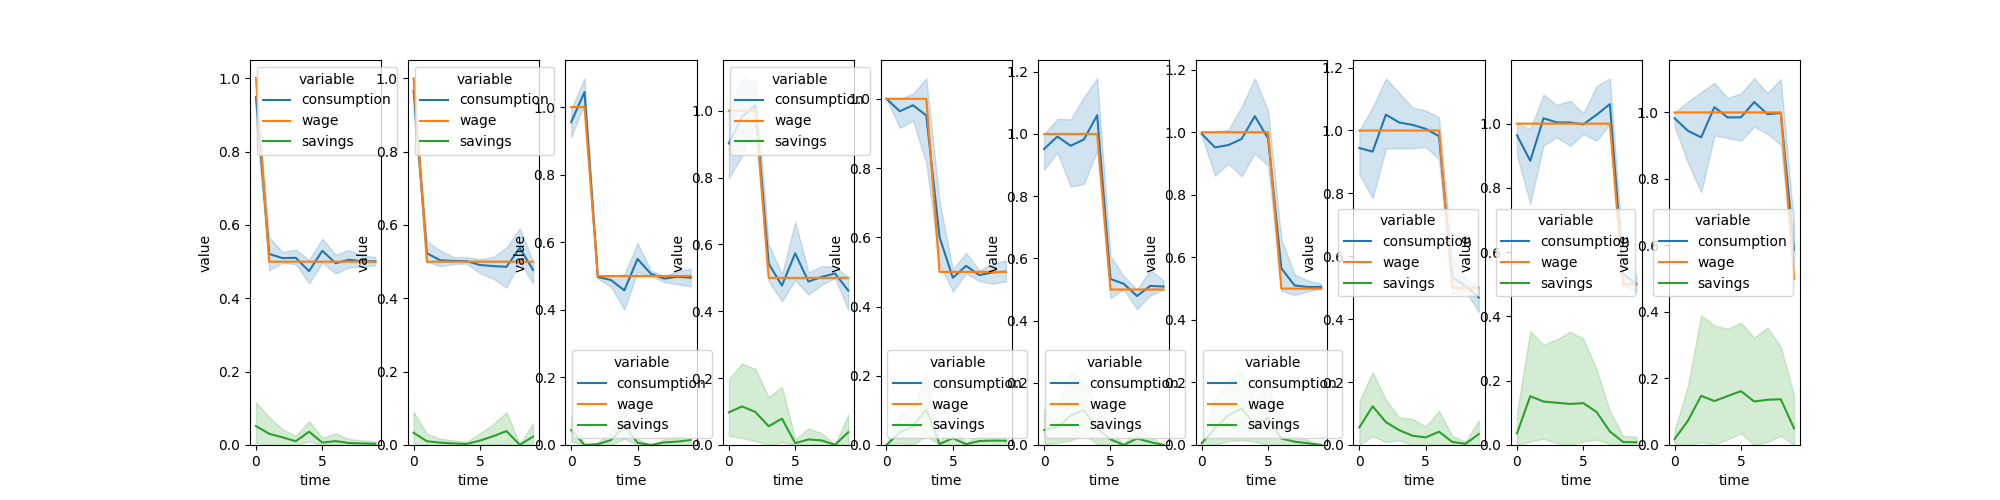
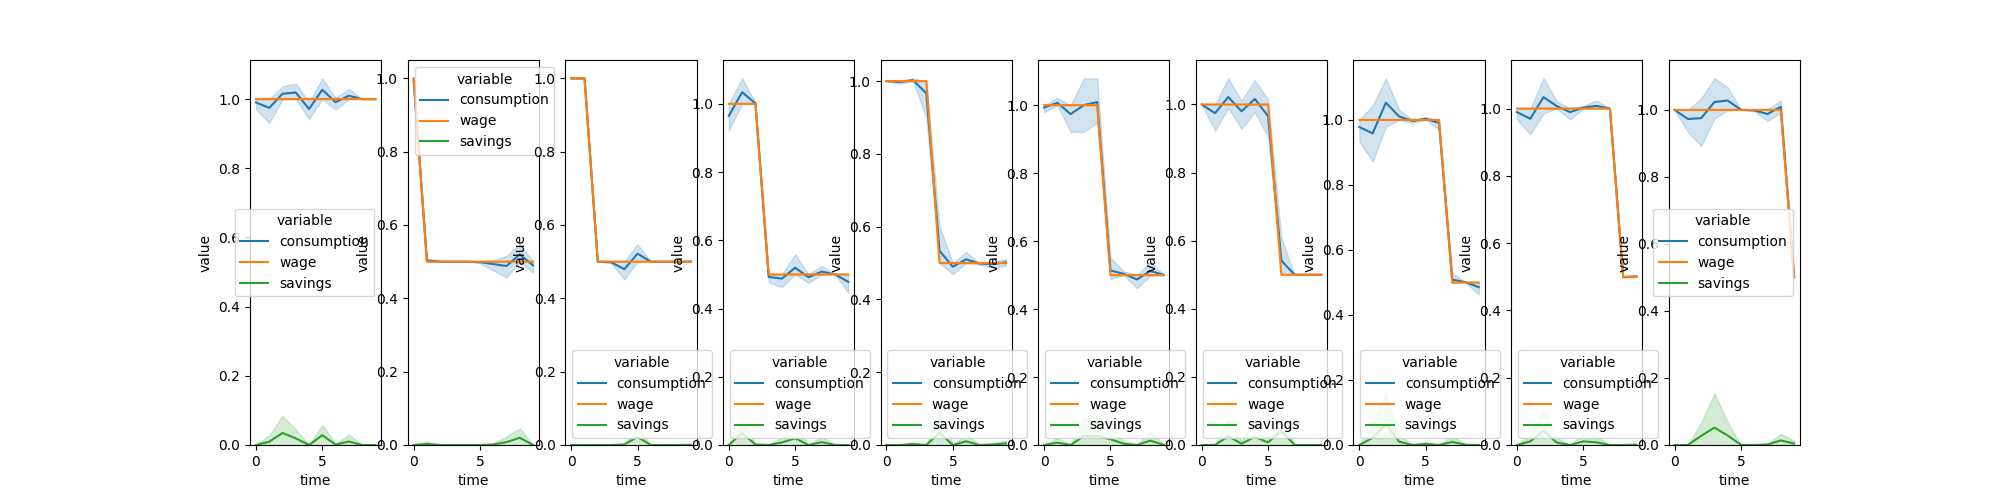
Comments

diff --git a/dsge/classical/tfp_shock.py b/dsge/classical/tfp_shock.py
@@ -31,6 +31,14 @@ class TFPShock(_BaseDSGE):
             Depreciation rate
         rho: float
             Persistence of TFP shock
+        A_0: float
+            Initial TFP
+        A_bar: float
+            Steady state TFP
+        A_eps: float
+            Standard deviation of TFP shock
+        solver: str
+            Solver to use
         """
         super().__init__(beta, T, solver=solver)
         self.rho = rho
@@ -39,11 +47,12 @@ class TFPShock(_BaseDSGE):
         self.A_bar = A_bar
         self.A_eps = A_eps
         self.A_0 = A_0
-        self.R_bar = (1 - beta + beta * delta) / beta
-        self.K_bar = ((1 - beta + beta * delta) / (alpha * self.A_bar * beta)) ** (1 / (alpha - 1))
-        self.Y_bar = self.A_bar * self.K_bar ** alpha
-        self.I_bar = self.delta * self.K_bar
-        self.C_bar = self.Y_bar - self.I_bar
+        self.R_bar = (1 - beta + beta * delta) / beta  # steady state interest rate
+        self.K_bar = ((1 - beta + beta * delta) / (alpha * self.A_bar * beta)) ** (
+                    1 / (alpha - 1))  # steady state capital
+        self.Y_bar = self.A_bar * self.K_bar ** alpha  # steady state output
+        self.I_bar = self.delta * self.K_bar  # steady state investment
+        self.C_bar = self.Y_bar - self.I_bar  # steady state consumption
         self.k = np.zeros(self.T)
         self.i = np.zeros(self.T)
         self.y = np.zeros(self.T)
@@ -89,10 +98,6 @@ class TFPShock(_BaseDSGE):
     def production(self, k, A):
         """
         Production function
-        Parameters
-        ----------
-        k : array_like
-            Array of capital stock
         """
         if k > 0:
             return A * k ** self.alpha
@@ -100,9 +105,15 @@ class TFPShock(_BaseDSGE):
             return 0
 
     def capital_growth(self, I, K):
+        """
+        Capital growth function
+        """
         return I + (1 - self.delta) * K
 
     def investment(self, Y, C):
+        """
+        Investment function
+        """
         return Y - C
 
     def model_step(self, y, i, k, c, a):
@@ -122,10 +133,6 @@ class TFPShock(_BaseDSGE):
     def utility(self, c):
         """
         Utility function for consumption c
-        Parameters
-        ----------
-        c : float
-            Consumption
         """
         return jnp.log(c + 1e-9)
 

diff --git a/dsge/rl/ambiguous_precautionary_savings.py b/dsge/rl/ambiguous_precautionary_savings.py
@@ -2,45 +2,14 @@ import gym
 import numpy as np
 from stable_baselines3 import PPO
 
-from dsge.classical.precautionary_savings import PrecautionarySavings
+from dsge.rl.precautionary_savings import PrecautionarySavingsRL
 
 
-class AmbiguousPrecautionarySavingsRL(PrecautionarySavings, gym.Env):
+class AmbiguousPrecautionarySavingsRL(PrecautionarySavingsRL):
     def __init__(self, W_0=1.0, beta=0.9, T=10, W_shock=0.5, eps=1e-3):
         super().__init__(W_0=W_0, beta=beta, T=T, W_shock=W_shock, eps=eps)
         self.action_space = gym.spaces.Box(low=0, high=1.0, shape=(2,), dtype=np.float32)
         self.observation_space = gym.spaces.Box(low=-np.inf, high=np.inf, shape=(2,), dtype=np.float32)
-
-    def step(self, action):
-        c, n = (action[0]), (action[1])
-        [s, w] = self.state
-        c *= s + w * n
-        reward = self.utility(c)
-        s, w = self.model_step(c, s, w)
-        self.state = self.store(c, s, w)
-        done = self.step_time()
-        info = {}
-        self.state = [s, w]
-        return np.array(self.state, dtype=np.float32), reward.item(), done, info
-
-    def model_step(self, c, s, w):
-        s_ = s + w - c
-        if self.t == self.T_shock:
-            self.shocked = True
-            w_ = self.W_shock
-        else:
-            w_ = w
-        return s_, w_
-
-    def model(self, c):
-        for t in range(1, self.T):
-            self.s[t] = self.model_step(c[t - 1], self.s[t - 1], self.w[t])
-
-    def store(self, c, s, w):
-        self.s[self.t] = s
-        self.c[self.t] = c
-        self.w[self.t] = w
-        return [s, w]
 
     def reset(self):
         self.T_shock = np.random.randint(1, self.T)

diff --git a/dsge/classical/precautionary_savings.py b/dsge/classical/precautionary_savings.py
@@ -35,13 +35,12 @@ class PrecautionarySavings(_BaseDSGE):
         solver : str
             Solver to use. Either 'ls' for least squares or 'min' for minimize
         """
-        super().__init__(beta, T)
+        super().__init__(beta, T, solver=solver)
         self.W_0 = W_0
         self.T_shock = T_shock
         self.W_shock = W_shock
         self.eps = eps
         self.history_vars = ['consumption', 'wage', 'savings']
-        self.solution = solver
         self.c = np.zeros(self.T)
         self.s = np.zeros(self.T)
         self.w = np.ones(self.T) * self.W_0
@@ -73,7 +72,7 @@ class PrecautionarySavings(_BaseDSGE):
 
         def constraint(c):
             self.model(c)
-            s_final = self.model_step(c[-1], self.s[-1], self.w[-1])
+            s_final, _ = self.model_step(c[-1], self.s[-1], self.w[-1])
             s_all = np.insert(self.s, 0, s_final)
             return s_all
 
@@ -98,15 +97,21 @@ class PrecautionarySavings(_BaseDSGE):
 
     def model_step(self, c, s, w):
         s_ = s + w - c
-        return s_
+        if self.t == (self.T_shock):
+            w_ = self.W_shock
+        else:
+            w_ = w
+        return s_, w_
 
     def model(self, c):
+        self.t = 1
         for t in range(1, self.T):
-            self.s[t] = self.model_step(c[t - 1], self.s[t - 1], self.w[t])
+            self.s[t], self.w[t] = self.model_step(c[t - 1], self.s[t - 1], self.w[t - 1])
+            self.t += 1
 
 
 if __name__ == "__main__":
-    model = PrecautionarySavings(solver='ls')
+    model = PrecautionarySavings()
     model.solve()
     print(model.total_utility(model.c))
     model.render()

diff --git a/dsge/rl/precautionary_savings.py b/dsge/rl/precautionary_savings.py
@@ -5,21 +5,19 @@ from dsge.classical.precautionary_savings import PrecautionarySavings
 
 
 class PrecautionarySavingsRL(PrecautionarySavings, gym.Env):
-    def __init__(self, W_0=1.0, beta=0.9, T=10, T_shock=5, W_shock=0.5, eps=1e-3):
+    def __init__(self, W_0=1.0, beta=1.0, T=10, T_shock=5, W_shock=0.5, eps=1e-3):
         super().__init__(W_0=W_0, beta=beta, T=T, T_shock=T_shock, W_shock=W_shock, eps=eps)
         self.action_space = gym.spaces.Box(low=0, high=1.0, shape=(2,), dtype=np.float32)
         self.observation_space = gym.spaces.Box(low=-np.inf, high=np.inf, shape=(2,), dtype=np.float32)
 
     def step(self, action):
-        c, n = (action[0]), (action[1])
-        [s, w] = self.state
-        c *= s + w * n
-        reward = self.utility(c)
-        s = self.model_step(c, s, w)
-        self.state = self.store(c, s, w)
+        c, n = (action[0]), (action[1])  # consumption, savings
+        [s, w] = self.state  # current state
+        c *= (s + w * n)  # scale consumption by current state
+        reward = self.utility(c)  # reward is utility of consumption
+        self.state = self.store(c, s, w)  # store state
         done = self.step_time()
-        if not done:
-            w = self.w[self.t]
+        s, w = self.model_step(c, s, w)  # update state
         info = {}
         self.state = [s, w]
         return np.array(self.state, dtype=np.float32), reward.item(), done, info

diff --git a/dsge/classical/brock_mirman.py b/dsge/classical/brock_mirman.py
@@ -30,6 +30,8 @@ class BrockMirman(_BaseDSGE):
             Number of periods
         G: float
             Growth rate of technology
+        b: float
+            Utility parameter
         """
         super().__init__(beta, T, solver=solver)
         self.alpha = alpha
@@ -62,33 +64,12 @@ class BrockMirman(_BaseDSGE):
     def production(self, A, K, N=1):
         """
         Cobb-Douglas production function
-
-        Parameters
-        ----------
-        A : float
-            Technology level
-        K : float
-            Capital stock
-        N : float
-            Labour
-
-        Returns
-        -------
-        Y : float
-            Output
         """
         return K ** (1 - self.alpha) * (A * N) ** self.alpha
 
     def utility(self, c, l):
         """
-        Utility function
-
-        Parameters
-        ----------
-        c : float
-            Consumption
-        l : float
-            Leisure
+        Utility function of consumption and leisure
         """
         return np.log(c + 1e-9) + self.b * np.log(1 - l + 1e-9)
 

diff --git a/experiments/ambiguousprecautionarysavings/ambiguous_precautionary_savings.py b/experiments/ambiguousprecautionarysavings/ambiguous_precautionary_savings.py
@@ -54,14 +54,13 @@ def evaluate_classical(env):
     env.render()
 
 
-def main(retrain=False, model_name='precautionary_savings', time_steps=100000):
-    env = AmbiguousPrecautionarySavingsRL(beta=0.99)
+def main(retrain=False, model_name='precautionary_savings', time_steps=150000):
+    env = AmbiguousPrecautionarySavingsRL()
     if retrain:
         train(env, model_name=model_name, total_timesteps=time_steps)
     else:
         if not exists(f"{model_name}.zip"):
             train(env, model_name=model_name)
-    env = PrecautionarySavingsRL(beta=0.99)
     evaluate_rl(T=10)
     plt.savefig('precautionary_savings_rl.png')
     plt.show(block=True)

diff --git a/dsge/rl/constrained_pv.py b/dsge/rl/constrained_pv.py
@@ -13,10 +13,10 @@ class ConstrainedPVRL(ConstrainedPV, gym.Env):
     def step(self, action):
         c = (action[0])
         [w] = self.state
-        c *= w / self.R ** (1 - (self.t + 1))
-        reward = self.utility(c)
-        self.store(c, w)
-        w = self.model_step(self.t, w, c)
+        c *= w / self.R ** (1 - (self.t + 1))  # normalize consumption
+        reward = self.utility(c)  # utility of consumption
+        self.store(c, w)  # store consumption and wage
+        w = self.model_step(self.t, w, c)  # update wage
         done = self.step_time()
         info = {}
         self.state = [w]

diff --git a/dsge/classical/capital_accumulation.py b/dsge/classical/capital_accumulation.py
@@ -26,12 +26,16 @@ class CapitalAccumulation(_BaseDSGE):
         ----------
         A :  float
             Total Factor Productivity
-        beta :
+        beta : float
             Time Preference Factor
-        T :
+        T : int
             Number of periods
-        delta :
+        delta : float
             Depreciation rate
+        K_0 : float
+            Initial capital stock
+        solver : str
+            Solver to use for the model
         """
         super().__init__(beta, T, solver=solver)
         self.A = A

diff --git a/experiments/precautionary_savings/precautionary_savings.py b/experiments/precautionary_savings/precautionary_savings.py
@@ -49,8 +49,8 @@ def evaluate_classical(env):
     env.render()
 
 
-def main(retrain=False, model_name='precautionary_savings', time_steps=100000):
-    env = PrecautionarySavingsRL(beta=0.99)
+def main(retrain=False, model_name='precautionary_savings', time_steps=150000):
+    env = PrecautionarySavingsRL()
     if retrain:
         train(env, model_name=model_name, total_timesteps=time_steps)
     else:

diff --git a/dsge/classical/constrained_pv.py b/dsge/classical/constrained_pv.py
@@ -93,10 +93,6 @@ class ConstrainedPV(_BaseDSGE):
     def utility(self, c):
         """
         Utility function for consumption c
-        Parameters
-        ----------
-        c : float
-            Consumption
         """
         return jnp.log(c + self.eps)
 
